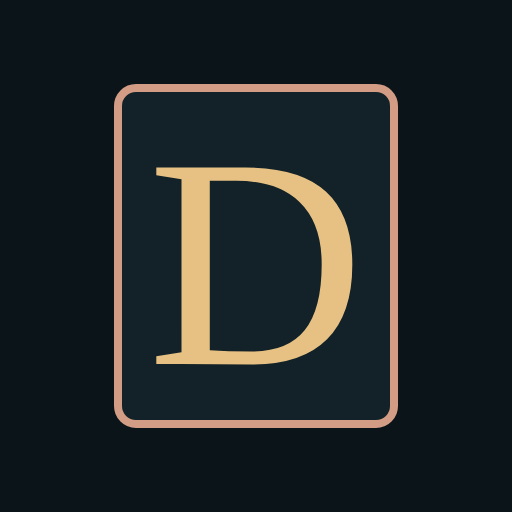
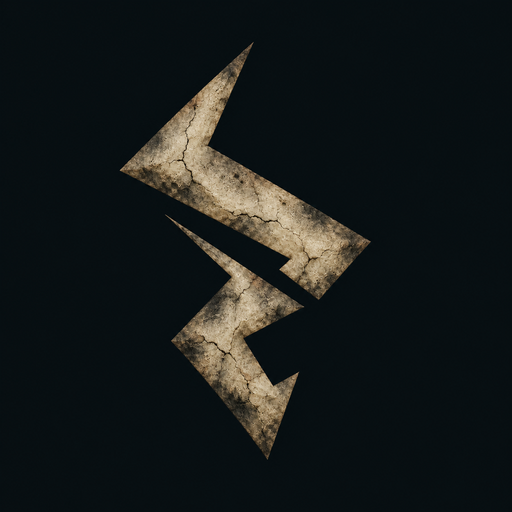
feat(branding): adopt bone-and-soot rune across app and notifications

Changed region(s): [[0.2188, 0.0938, 0.7812, 0.9062]]

diff --git a/table/battle.html b/table/battle.html
@@ -17,7 +17,7 @@
   <header class="masthead lobby-header home-header" data-navigation="battle" hidden></header>
   <main id="battle" class="battle-shell" data-ready="false">
     <header class="hud-top">
-      <a class="brand" href="/" aria-label="Downfall Instinct — back to lobby"><span aria-hidden="true">◈</span><div>DOWNFALL <b>INSTINCT</b><small>BATTLE VIEW · PREVIEW</small></div></a>
+      <a class="brand" href="/" aria-label="Downfall Instinct — back to lobby"><span class="battle-brand-mark" aria-hidden="true"></span><div>DOWNFALL <b>INSTINCT</b><small>BATTLE VIEW · PREVIEW</small></div></a>
       <div class="round"><span>ROUND <b id="round-number">—</b></span><small id="round-phase"></small></div><button id="opponent-open" class="opponent-chip" type="button" aria-haspopup="dialog" hidden><span class="opponent-avatar" id="opponent-avatar" aria-hidden="true"></span><span class="opponent-text"><span class="opponent-vs">VS</span><strong id="opponent-name"></strong></span><span id="opponent-badge" class="opponent-badge" hidden></span><span id="opponent-heart" class="opponent-heart" title="Your friend" hidden>♥</span></button>
       <div class="tools"><button id="history-open" type="button" data-history-open aria-label="Open match history" aria-describedby="history-preview history-unread" disabled><span>History<span id="history-unread"></span></span><small id="history-preview">No match loaded</small></button><button id="help-open" type="button" data-help-open aria-label="Help and round guide" disabled>?</button><button id="settings" type="button" title="Match settings" aria-label="Open match settings">⚙</button></div>
     </header>

diff --git a/table/battle-lab.css b/table/battle-lab.css
@@ -59,6 +59,7 @@ button:focus-visible, a:focus-visible, select:focus-visible, input:focus-visible
 .hud-top { display: flex; align-items: center; justify-content: space-between; gap: 12px; padding: 0 28px; background: linear-gradient(90deg,#0a151a,#1b2727,#0a151a); border-bottom: 1px solid #c1b38c36; }
 .brand { display: flex; align-items: center; gap: 12px; color: #ebe7d8; text-decoration: none; font: 19px Georgia, serif; letter-spacing: 3px; }
 .brand > span { color: var(--gold); font-size: 34px; }.brand b { font-weight: 400; color: var(--gold); }.brand small { display: block; font: 8px system-ui,sans-serif; letter-spacing: 4px; color: var(--muted); margin-top: 6px; }
+.brand > .battle-brand-mark { display: block; width: 36px; height: 38px; flex: 0 0 auto; background: url('/icon.svg') center / contain no-repeat; }
 .round { text-align: center; margin-left: auto; margin-right: auto; font-size: 10px; letter-spacing: 2px; }.round b { color: var(--gold); font: 25px Georgia,serif; margin-left: 7px; }.round small { display: block; color: #b4c3b7; font-size: 8px; letter-spacing: 3px; margin-top: 3px; }
 .tools { display: flex; gap: 7px; }.tools button { font-size: 22px; padding: 4px 9px; background: transparent; border-color: #b5b69840; }
 .eyebrow { color: var(--gold); font-size: 9px; letter-spacing: 2px; margin: 0 0 6px; }

diff --git a/table/battle-lab.html b/table/battle-lab.html
@@ -12,7 +12,7 @@
 <body>
   <main class="battle-shell" id="lab" data-stage="decision" data-ready="false">
     <header class="hud-top">
-      <a class="brand" href="/" aria-label="Downfall Instinct — back to lobby"><span aria-hidden="true">◈</span><div>DOWNFALL <b>INSTINCT</b><small>THE LAST LIGHT</small></div></a>
+      <a class="brand" href="/" aria-label="Downfall Instinct — back to lobby"><span class="battle-brand-mark" aria-hidden="true"></span><div>DOWNFALL <b>INSTINCT</b><small>THE LAST LIGHT</small></div></a>
       <div class="round"><span>ROUND <b id="round-number"></b></span><small id="round-phase"></small></div>
       <div class="tools"><button id="reset" type="button" title="Reset scene" aria-label="Reset scene">↻</button><button id="fullscreen" type="button" title="Fullscreen" aria-label="Enter fullscreen"><svg viewBox="0 0 24 24" width="20" height="20" aria-hidden="true"><path d="M8 3H3v5m13-5h5v5M3 16v5h5m13-5v5h-5" fill="none" stroke="currentColor" stroke-width="1.5"/></svg></button><button id="settings" type="button" title="Settings" aria-label="Open settings">☷</button></div>
     </header>

diff --git a/table/index.html b/table/index.html
@@ -16,7 +16,7 @@
   <body class="classic-page">
     <header class="masthead lobby-header home-header" data-navigation="classic" hidden></header>
     <header class="masthead">
-      <div class="brand"><span class="brand-mark" aria-hidden="true">D</span><div><span class="eyebrow">The tabletop</span><h1>Downfall Instinct</h1></div></div>
+      <div class="brand"><span class="brand-mark" aria-hidden="true"></span><div><span class="eyebrow">The tabletop</span><h1>Downfall Instinct</h1></div></div>
       <div class="session-state"><span id="seat" class="seat-label">Your table</span><p id="versus" class="versus-line" hidden></p><p id="phase" aria-live="polite">Connecting…</p><a class="admin-link" href="/">Tables</a> <a id="admin-link" class="admin-link" href="/admin" hidden>Admin</a></div>
       <!-- Sound and haptics are a setting, not part of the match: a small toggle beside the guide (UX 19). -->
       <details id="feedback-preferences" class="feedback-preferences">

diff --git a/table/navigation.js b/table/navigation.js
@@ -5,7 +5,7 @@ import { operatorToken } from './session.js';
 import { mountGameSettings } from './game-preferences.js';
 
 const headerContent = `
-    <a class="brand" href="/" aria-label="Downfall Instinct home"><span class="brand-mark" aria-hidden="true">D</span><div><span class="eyebrow">Tactical creature combat</span><h1>Downfall Instinct</h1></div></a>
+    <a class="brand" href="/" aria-label="Downfall Instinct home"><span class="brand-mark" aria-hidden="true"></span><div><span class="eyebrow">Tactical creature combat</span><h1>Downfall Instinct</h1></div></a>
     <button id="home-menu-toggle" class="home-menu-toggle" type="button" aria-expanded="false" aria-controls="home-navigation" aria-label="Open navigation"><span aria-hidden="true">☰</span><span>Menu</span></button>
     <nav id="home-navigation" class="home-navigation" aria-label="Main navigation">
       <a id="play-link-home" href="/">Lobby</a>

diff --git a/table/battle.css b/table/battle.css
@@ -739,6 +739,8 @@
 .battle-page .home-header .brand h1 { margin: 0; font: 400 21px Georgia, serif; }
 .battle-page .home-header .eyebrow { display: block; text-transform: uppercase; margin: 0; }
 .battle-page .home-header .brand-mark { display: grid; place-items: center; width: 32px; height: 38px; border: 1px solid var(--brand-ember); border-radius: 10px 3px; font: 26px Georgia, serif; }
+.battle-page .home-header .brand-mark { border: 0; border-radius: 0; }
+#battle .battle-brand-mark { display: block; width: 36px; height: 38px; flex: 0 0 auto; background: url('/icon.svg') center / contain no-repeat; }
 .battle-page .navigation-panels dialog { margin: auto; }
 
 /* On short landscape screens the menu and the player's button sit at the right end of the match toolbar, where the

diff --git a/table/table.css b/table/table.css
@@ -78,6 +78,7 @@ button, [role="button"] { touch-action: manipulation; }
 .masthead { max-width: 1500px; margin: auto; min-height: 108px; display: flex; align-items: center; gap: 28px; border-bottom: 1px solid var(--line); }
 .brand { display: flex; align-items: center; gap: 15px; }
 .brand-mark, .pass-emblem { color: var(--gold); border: 1px solid var(--brand-ember); width: 43px; height: 49px; display: grid; place-items: center; font: 31px Georgia, serif; border-radius: 12px 3px; }
+.brand-mark { background: url('/icon.svg') center / contain no-repeat; border: 0; border-radius: 0; flex: 0 0 auto; }
 .brand .eyebrow { display: block; margin-bottom: 4px; }
 .session-state { margin-left: auto; text-align: right; }
 .waiting-room { margin: 10px 0 0; display: grid; gap: 8px; }

diff --git a/table/branding.test.js b/table/branding.test.js
@@ -35,3 +35,10 @@ test('installed app and browser chrome use the same slate as the page', () => {
   }
   assert.ok(read('studio/index.html').includes(`name="theme-color" content="${tokens['--brand-slate']}"`));
 });
+test('the app and Android notifications use the rune instead of the placeholder letter', () => {
+  assert.match(read('table/icon.svg'), /<path d=/);
+  assert.doesNotMatch(read('table/icon.svg'), /<text/);
+  assert.match(read('table/sw.js'), /badge: BADGE/);
+  assert.match(read('table/sw.js'), /notification-badge\.png/);
+  assert.doesNotMatch(read('table/navigation.js'), /brand-mark[^<]*>D<\/span>/);
+});

diff --git a/table/sw.js b/table/sw.js
@@ -3,6 +3,7 @@
 // load, and a worker holding yesterday's page would stop that.
 
 const ICON = '/icon-192.png';
+const BADGE = '/notification-badge.png';
 
 const GAME = '/play';
 
@@ -53,7 +54,7 @@ async function onPush(notice) {
     body: notice.body ?? 'The match is asking you something.',
     tag: notice.tag ?? 'turn',
     icon: ICON,
-    badge: ICON,
+    badge: BADGE,
     renotify: true,
     data: { url: notice.url ?? '/play' },
   });

diff --git a/src/DownfallArena.Cli/Table/TableFiles.cs b/src/DownfallArena.Cli/Table/TableFiles.cs
@@ -82,6 +82,7 @@ internal sealed class TableFiles
             ["/icon.svg"] = (Path.Combine(tableDirectory, "icon.svg"), Svg),
             ["/icon-192.png"] = (Path.Combine(tableDirectory, "icon-192.png"), Png),
             ["/icon-512.png"] = (Path.Combine(tableDirectory, "icon-512.png"), Png),
+            ["/notification-badge.png"] = (Path.Combine(tableDirectory, "notification-badge.png"), Png),
             ["/card.js"] = (Path.Combine(tableDirectory, "card.js"), JavaScript),
             ["/board.js"] = (Path.Combine(tableDirectory, "board.js"), JavaScript),
             ["/timeline.js"] = (Path.Combine(tableDirectory, "timeline.js"), JavaScript),
